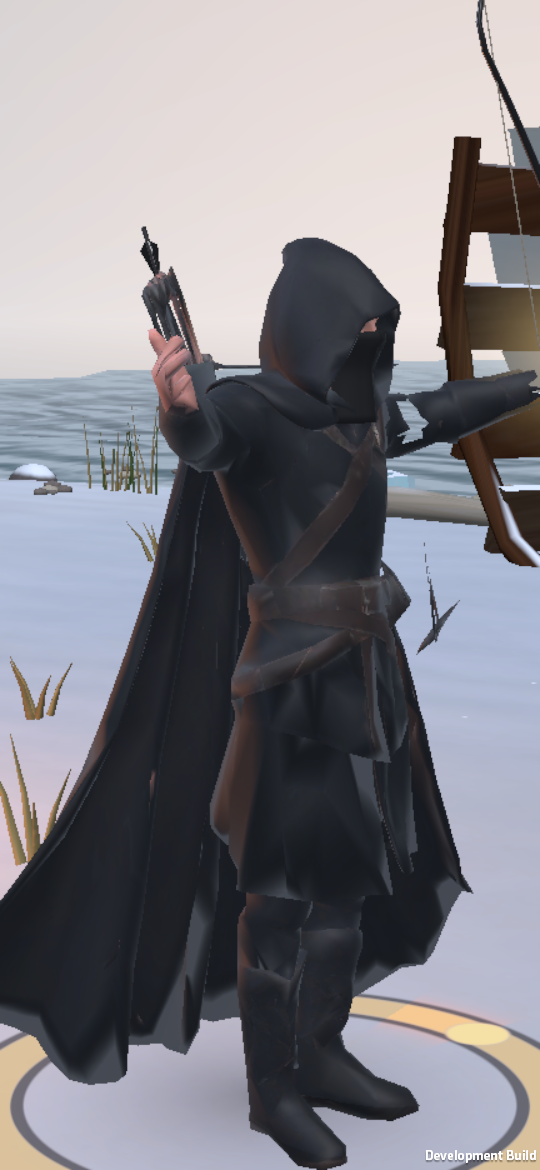
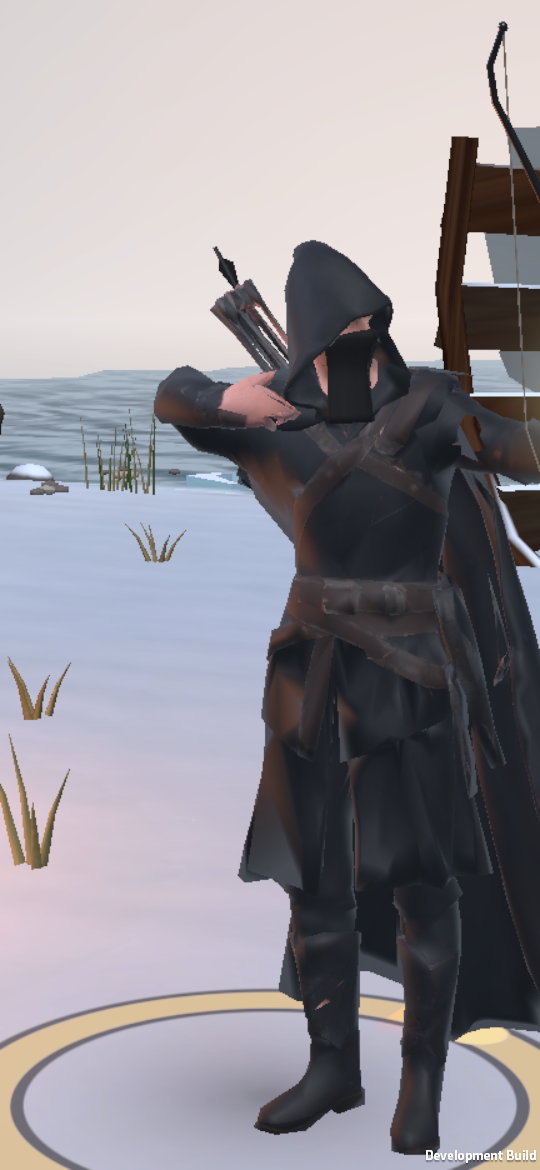
docs: KAN-227 animation fix in the state entry + Ranger idle / run / draw / arrow shots (KAN-227)

diff --git a/STATE.md b/STATE.md
@@ -148,4 +148,5 @@
   - Data / runtime: `HeroDefinition` new optional `projectile` (Bolt) + `shotClips`; empty = scene defaults. `HeroBuilder` sets the Ranger's (refreshed like the model link). `HeroLoadout.ApplyShot`: `AutoShooter.SetBoltPrefab` (scene bolt remembered and restored for heroes without one), `GameAudio.SetPlayerShots` (new `PlayerShots`; boss fan volleys keep the crossbow). `HeroLoadout.sound` wired by GameSceneBuilder (fallback: find in scene).
   - Tests: EditMode `HeroProgressTests` +3: Ranger model 5-8k tris, Ranger arrow (own prefab, longer + thinner than the bolt, < 200 tris, trail + blaze head) + 3 twang clips, Knight none; `GameAudio.PlayerShots` override / fallback. PlayMode `HeroSelectTests`: Knight scene = Bolt + crossbow shots, Ranger scene = his arrow + twang clips, every Bolt in the Ranger run is `Arrow_Ranger`.
   - Verified: compile 0 errors; Game scene rebuild exit 0; EditMode 233 pass; PlayMode 981: 979 pass, 2 skipped, 0 fail; Mac dev build 0 exceptions. Mac shots (540x1170, `-ss-quality Mobile -ss-scene Game -ss-hero shadow_ranger -ss-run-seed 9001 -ss-immortal -ss-delay 3`): `Docs/screenshots/kan227-ranger-arrow.png` (`-ss-horde 12 -ss-bolt-freeze 0.6,0.06`: arrow in flight south of the Ranger, game camera; 59 draw calls, 17.2 ms, 61.6k tris) + `kan227-ranger-arrow-zoom.png` (sips crop x2), `kan227-ranger-arrow-closeup.png` (`-ss-horde 6 -ss-bolt-freeze 0.6,0.03 -ss-closeup 60`: arrow just off the bow, decimated body). The 8 mm shaft aliases to a dashed line in the close-up; reads as a thin dark line at the game camera.
-  - Limits / follow-up: iPhone feel + frame time not checked; no Ranger hit clip (flash only); twang not listened to by a person.
+  - Fix after the user's iPhone check (Ranger stood in the rest / T-pose since KAN-153, on Mac too): the A_ clip FBX hold the armature alone, so the curve paths start at `Hips/...`; the Animator sat on the SK_ FBX root, where the path is `ShadowRanger_Rig/Hips/...`, and bound 0 of 280 curves (Animator states still changed, so the KAN-153 tests passed). `HeroBuilder.ClipRoot` now puts the Animator on the transform where every clip path resolves (the rig node, like `EnemyRosterBuilder`), culling `AlwaysAnimate` (no renderer under the rig node). Also: the decimate blended weights to 5+ bones on 114 vertices (Unity skins 4: hand flakes, cape spikes): B6b now limits to 4 + normalizes. New EditMode `RangerModel_EveryClipBindsToTheRig_AndMovesTheBones` (every curve path resolves, each clip moves the hand / foot > 5 cm); PlayMode Ranger shoot test asserts the bow hand turns > 5 deg off the rest pose. Shots: `kan227-ranger-idle.png`, `kan227-ranger-run.png`, `kan227-ranger-arrow-closeup.png` (full draw), `kan227-ranger-arrow.png` + `-zoom` (draw pose, arrow leaving; 60 draw calls, 16.7 ms). EditMode 234 pass; PlayMode 981: 979 pass, 2 skipped, 0 fail.
+  - Limits / follow-up: iPhone feel + frame time not measured; the cape reads faceted in close-ups (6k body); no Ranger hit clip (flash only); twang not listened to by a person.
